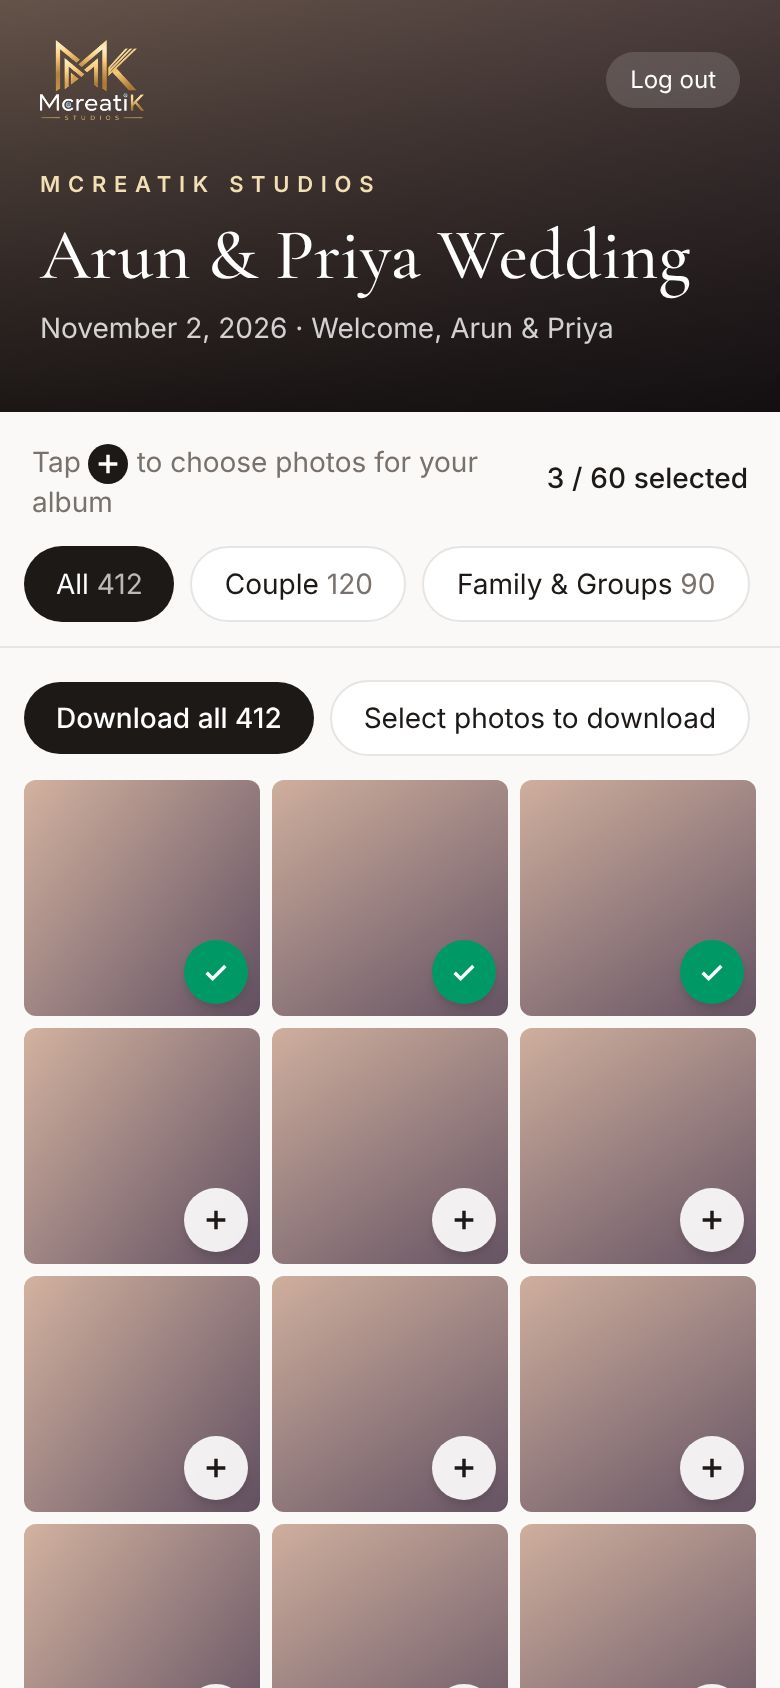
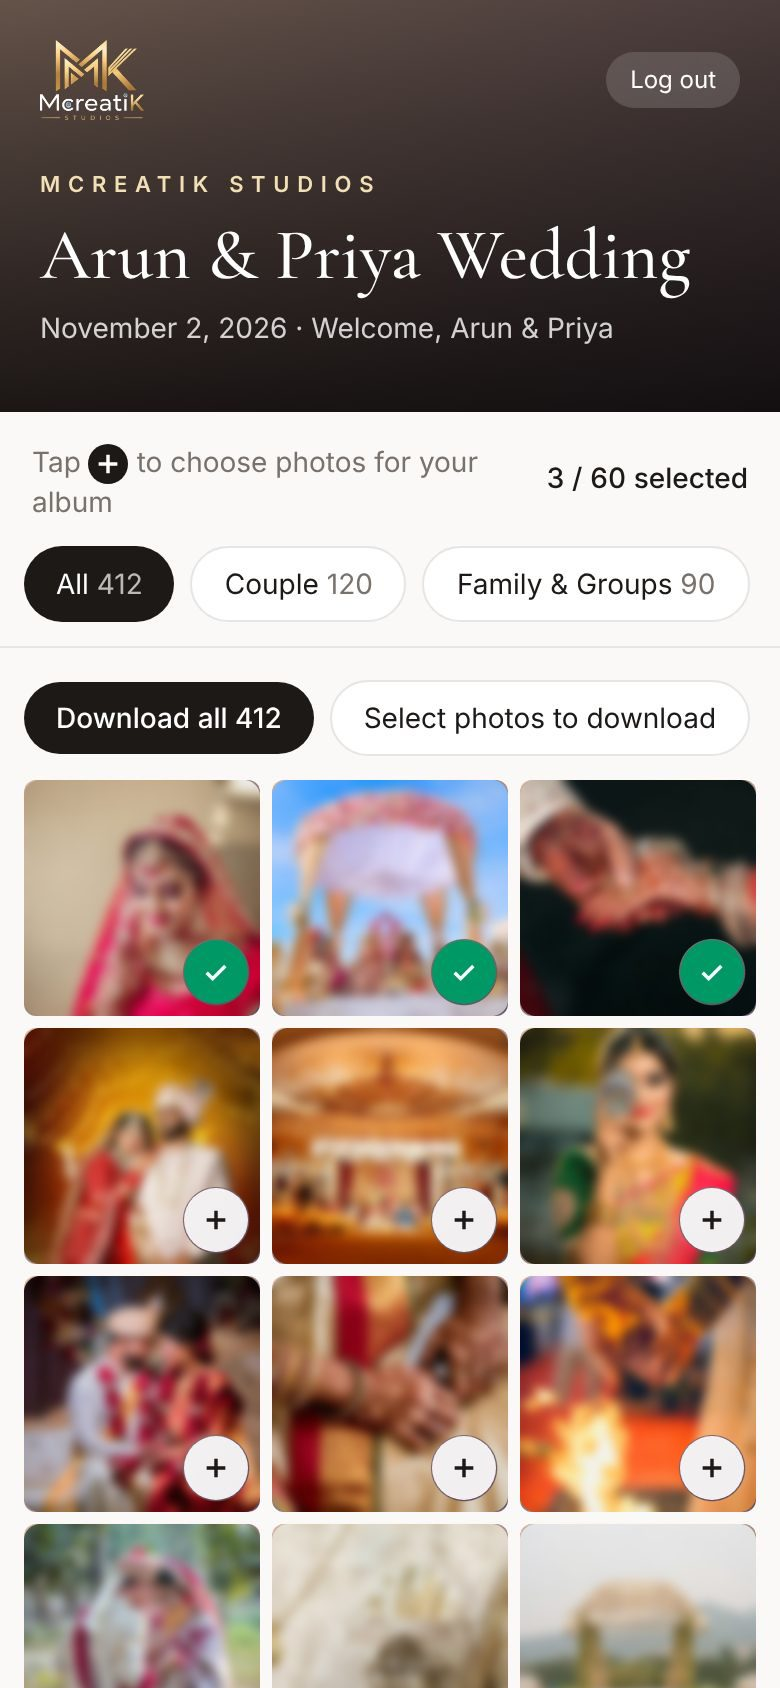
Instant Memories: live phone hero, maroon backdrop, real-looking screens
The hero phone is now a live-gallery mock: blurred South Indian wedding
photos drop in every few seconds with a LIVE bar, rising photo count and
a "new photo" toast (static under reduced motion). Deep maroon backdrop
with warm bokeh, plus floating "Scan the QR" and "Camera 1" cards.
Couples and Guests screenshots get blurred wedding photos in place of
the demo placeholders. Photos are compressed Unsplash images (Unsplash
licence).

diff --git a/src/components/studios/instant-memories/Sections.jsx b/src/components/studios/instant-memories/Sections.jsx
@@ -7,18 +7,20 @@
    src/data/instantMemories.js.
    ============================================ */
 
-import React, { memo } from 'react'
+import React, { memo, useEffect, useState } from 'react'
 import { Link } from 'react-router-dom'
-import { motion, useReducedMotion } from 'framer-motion'
+import { AnimatePresence, motion, useReducedMotion } from 'framer-motion'
 import {
   FiArrowRight, FiBarChart2, FiCamera, FiCheck, FiDownload, FiHeart, FiImage, FiLock, FiMail,
   FiMessageCircle, FiSliders, FiSmartphone, FiStar, FiUsers, FiWifi,
 } from 'react-icons/fi'
+import { BsQrCode } from 'react-icons/bs'
 import { RevealText } from '../../motion'
 import { getWhatsAppHref } from '../../../utils/whatsapp'
 import {
   IM_COUPLE_MESSAGE, IM_DEMO_MESSAGE, IM_FOR_COUPLES, IM_FOR_GUESTS, IM_FOR_STUDIOS, IM_PRIVACY, IM_STEPS,
 } from '../../../data/instantMemories'
+import studiosLogoDark from '../../../assets/studios-logo-dark-bg.webp'
 
 const EASE = [0.22, 1, 0.36, 1]
 const IMG = '/studios/instant-memories'
@@ -52,13 +54,153 @@ function Phone({ src, alt, className = '' }) {
   )
 }
 
+/* Hero phone: a live-gallery mock built from blurred Unsplash photos of
+   South Indian weddings (small crops in public/studios/instant-memories/live,
+   Unsplash licence). A new photo
+   drops in every few seconds so the "live" idea reads at a glance. */
+const LIVE = `${IMG}/live`
+const LIVE_POOL = ['p1', 'p2', 'p3', 'p4', 'p5', 'p6', 'p7', 'p8'].map((n) => `${LIVE}/${n}.webp`)
+const LIVE_VISIBLE = 4
+const LIVE_START_COUNT = 18
+const LIVE_INTERVAL_MS = 3200
+
+function LivePhone() {
+  const reduce = useReducedMotion()
+  // Each tile gets a unique id so a photo can re-enter after the pool loops.
+  const [tiles, setTiles] = useState(() =>
+    LIVE_POOL.slice(0, LIVE_VISIBLE).map((src, i) => ({ id: i, src }))
+  )
+  const [count, setCount] = useState(LIVE_START_COUNT)
+  const [toast, setToast] = useState(false)
+
+  useEffect(() => {
+    if (reduce) return undefined
+    let next = LIVE_VISIBLE
+    let hideToast
+    const timer = setInterval(() => {
+      if (document.hidden) return
+      const id = next++
+      setTiles((prev) => [{ id, src: LIVE_POOL[id % LIVE_POOL.length] }, ...prev].slice(0, LIVE_VISIBLE))
+      setCount((c) => c + 1)
+      setToast(true)
+      clearTimeout(hideToast)
+      hideToast = setTimeout(() => setToast(false), 1600)
+    }, LIVE_INTERVAL_MS)
+    return () => {
+      clearInterval(timer)
+      clearTimeout(hideToast)
+    }
+  }, [reduce])
+
+  return (
+    <div
+      role="img"
+      aria-label="A live wedding gallery on a guest's phone, with new photos arriving"
+      className="relative rounded-[2.2rem] border-[6px] border-[#1C1710] bg-[#1C1710] shadow-2xl shadow-black/40"
+    >
+      <div aria-hidden="true" className="relative aspect-[9/17] overflow-hidden rounded-[1.7rem] bg-[#FAF7F0]">
+        {/* Cover */}
+        <div className="relative h-[40%]">
+          <img src={`${LIVE}/cover.webp`} alt="" width="600" height="560" className="absolute inset-0 h-full w-full object-cover" />
+          <div className="absolute inset-0 bg-gradient-to-b from-black/45 via-black/10 to-black/75" />
+          <img src={studiosLogoDark} alt="" className="absolute left-4 top-4 h-9 w-auto" />
+          <div className="absolute inset-x-4 bottom-7 text-white">
+            <p className="font-display italic text-[26px] leading-none">Wedding Day</p>
+            <p className="mt-1.5 font-body text-[11px] text-white/80">Live from the venue</p>
+          </div>
+        </div>
+
+        {/* Live bar */}
+        <div className="relative z-10 mx-3 -mt-4 flex items-center gap-2 rounded-xl bg-white px-3 py-2 shadow-md shadow-black/10">
+          <span className="relative flex h-2 w-2">
+            <span className="absolute inline-flex h-full w-full animate-ping rounded-full bg-[#E5484D]/60 motion-reduce:animate-none" />
+            <span className="relative inline-flex h-2 w-2 rounded-full bg-[#E5484D]" />
+          </span>
+          <span className="font-body text-[10px] font-bold tracking-[0.2em] text-[#1C1710]">LIVE</span>
+          <span className="truncate font-body text-[10px] text-[#6B6153]">New photos arriving</span>
+          <span className="ml-auto shrink-0 font-body text-[10px] tabular-nums text-[#6B6153]">{count} photos</span>
+        </div>
+
+        {/* Photo grid — newest first */}
+        <div className="grid grid-cols-2 gap-1.5 p-3">
+          <AnimatePresence initial={false} mode="popLayout">
+            {tiles.map((tile) => (
+              <motion.img
+                key={tile.id}
+                src={tile.src}
+                alt=""
+                width="400"
+                height="500"
+                layout
+                initial={{ opacity: 0, scale: 0.85 }}
+                animate={{ opacity: 1, scale: 1 }}
+                exit={{ opacity: 0, scale: 0.9 }}
+                transition={{ duration: 0.55, ease: EASE }}
+                className="aspect-[4/5] w-full rounded-lg object-cover"
+              />
+            ))}
+          </AnimatePresence>
+        </div>
+
+        {/* "Just arrived" toast */}
+        <AnimatePresence>
+          {toast && (
+            <motion.div
+              initial={{ opacity: 0, y: 12 }}
+              animate={{ opacity: 1, y: 0 }}
+              exit={{ opacity: 0, y: 12 }}
+              transition={{ duration: 0.3, ease: EASE }}
+              className="absolute inset-x-0 bottom-4 flex justify-center"
+            >
+              <span className="inline-flex items-center gap-1.5 rounded-full bg-[#1C1710]/90 px-3 py-1.5 font-body text-[10px] font-medium text-white shadow-lg">
+                <FiCamera className="h-3 w-3 text-[#E3C46F]" /> New photo just arrived
+              </span>
+            </motion.div>
+          )}
+        </AnimatePresence>
+      </div>
+    </div>
+  )
+}
+
+/** Small card that floats beside the hero phone (gently bobs unless reduced motion). */
+function FloatCard({ children, className = '', delay = 0 }) {
+  const reduce = useReducedMotion()
+  return (
+    <motion.div
+      aria-hidden="true"
+      initial={{ opacity: 0, y: 16 }}
+      animate={reduce ? { opacity: 1, y: 0 } : { opacity: 1, y: [0, -8, 0] }}
+      transition={
+        reduce
+          ? { duration: 0.6, delay }
+          : { opacity: { duration: 0.6, delay }, y: { duration: 5, delay, repeat: Infinity, ease: 'easeInOut' } }
+      }
+      className={`absolute z-10 hidden sm:flex items-center gap-2.5 rounded-2xl border border-white/10 bg-white/95 px-3.5 py-2.5 shadow-xl shadow-black/30 ${className}`}
+    >
+      {children}
+    </motion.div>
+  )
+}
+
 const demoHref = getWhatsAppHref(IM_DEMO_MESSAGE)
 const coupleHref = getWhatsAppHref(IM_COUPLE_MESSAGE)
 
 export const InstantMemoriesHero = memo(function InstantMemoriesHero() {
   const reduce = useReducedMotion()
   return (
-    <section className="relative overflow-hidden bg-[#1C1710] pt-32 pb-20 lg:pt-40 lg:pb-28 text-white">
+    <section className="relative overflow-hidden bg-[#3A0F1A] pt-32 pb-20 lg:pt-40 lg:pb-28 text-white">
+      {/* Deep maroon with warm out-of-focus venue lights, darkened on the left so the copy stays readable */}
+      <img
+        src={`${LIVE}/hero-bg.webp`}
+        alt=""
+        aria-hidden="true"
+        width="1600"
+        height="900"
+        className="pointer-events-none absolute inset-0 h-full w-full object-cover"
+      />
+      <div aria-hidden="true" className="pointer-events-none absolute inset-0 bg-gradient-to-r from-[#3A0F1A] via-[#3A0F1A]/75 to-[#3A0F1A]/20" />
+      <div aria-hidden="true" className="pointer-events-none absolute inset-x-0 bottom-0 h-32 bg-gradient-to-t from-[#3A0F1A] to-transparent" />
       <div aria-hidden="true" className="pointer-events-none absolute -top-40 -right-40 h-[32rem] w-[32rem] rounded-full bg-[#C9971F]/15 blur-3xl" />
       <div className="relative max-w-6xl mx-auto px-5 sm:px-8 grid items-center gap-14 lg:grid-cols-[1.15fr_0.85fr]">
         <div>
@@ -90,9 +232,27 @@ export const InstantMemoriesHero = memo(function InstantMemoriesHero() {
           initial={reduce ? { opacity: 0 } : { opacity: 0, y: 40, rotate: 2 }}
           animate={reduce ? { opacity: 1 } : { opacity: 1, y: 0, rotate: 0 }}
           transition={{ duration: 1, ease: EASE, delay: 0.15 }}
-          className="mx-auto w-full max-w-[300px]"
+          className="relative mx-auto w-full max-w-[270px]"
         >
-          <Phone src={`${IMG}/guest-gallery.jpg`} alt="A live wedding gallery on a guest's phone, showing new photos arriving" />
+          <LivePhone />
+          <FloatCard className="-left-28 bottom-20" delay={0.9}>
+            <span className="flex h-9 w-9 items-center justify-center rounded-lg bg-[#1C1710] text-white">
+              <BsQrCode className="h-5 w-5" />
+            </span>
+            <span className="font-body leading-tight">
+              <span className="block text-xs font-semibold text-[#1C1710]">Scan the QR</span>
+              <span className="block text-[11px] text-[#6B6153]">Watch it live</span>
+            </span>
+          </FloatCard>
+          <FloatCard className="-right-24 top-28" delay={1.3}>
+            <span className="flex h-9 w-9 items-center justify-center rounded-lg bg-[#C9971F]/15 text-[#C9971F]">
+              <FiCamera className="h-4 w-4" />
+            </span>
+            <span className="font-body leading-tight">
+              <span className="block text-xs font-semibold text-[#1C1710]">Camera 1</span>
+              <span className="inline-flex items-center gap-1 text-[11px] text-[#2F855A]"><FiCheck className="h-3 w-3" /> Sent to guests</span>
+            </span>
+          </FloatCard>
         </motion.div>
       </div>
     </section>
